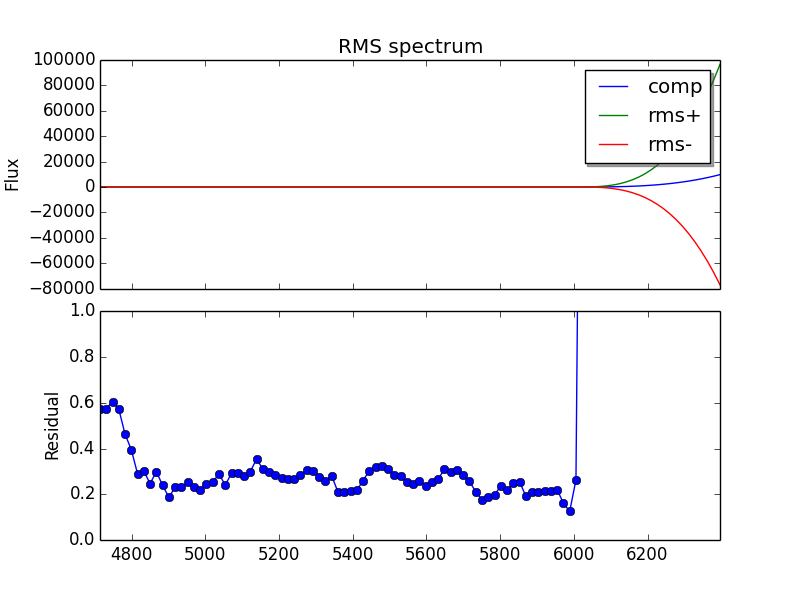
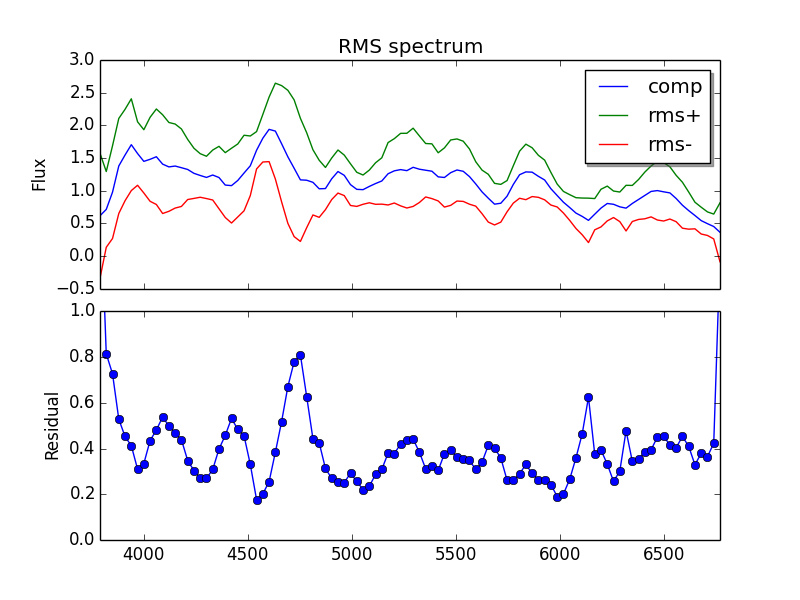
Updated plot
still no idea why it won't work for num>70...

diff --git a/personal/Yinghe/Week 3/specavg.py b/personal/Yinghe/Week 3/specavg.py
@@ -1,5 +1,4 @@
 
-
 import numpy as np
 import os
 import scipy
@@ -17,28 +16,29 @@ bad_files = []
 
 #Start in the data folder, and make a list of each file ending with .flm in each directory
 
-"""path = '../../data/cfa/'
+path = '../../../data/cfa/'
 
-for dirs,subdirs,files in os.walk(path):
+"""for dirs,subdirs,files in os.walk(path):
     for file in files:
         if file.endswith('.flm'):
             spectra_files.append(os.path.join(dirs,file))"""
             
 #Faster ways            
-spectra_files=glob.glob("../../data/cfa/*/*.flm")
+spectra_files=glob.glob("../../../data/cfa/*/*.flm")
                     
 #Read in data, store unreadable files (give an error when read in) in a separate array
-num = 80 # the number of spectra to analyze
-for i in range(num):
+num0 = 50 # the number of spectra to analyze
+for i in range(num0):
     try:
-        spectra_arrays.append(np.loadtxt(spectra_files[i]))
+        spectra_arrays.append(Table.read(spectra_files[i],format='ascii'))
         spectra_name.append(spectra_files[i])
     except ValueError:
         bad_files.append(spectra_files[i])
+
 num = len(spectra_arrays) # Reset the number to the number of good files
 
 #deredshift data
-parameters = Table.read('../../data/cfa/cfasnIa_param.dat',format='ascii')
+parameters = Table.read('../../../data/cfa/cfasnIa_param.dat',format='ascii')
 sn_name = parameters['col1']
 sn_z = parameters['col2']
 #old_spectrum = []
@@ -49,9 +49,9 @@ for i in range(num):
     for j in range(len(sn_name)):
         if sn_name[j] in file_name:
 		z=sn_z[j]
-    lambda_obs =old_spectrum[:,0]
+    lambda_obs =old_spectrum['col1']
     lambda_emit= lambda_obs/(1+z)
-    spectra_arrays[i]=Table([lambda_emit,old_spectrum[:,1]],names=('col1','col2'))
+    spectra_arrays[i]=Table([lambda_emit,old_spectrum['col2']],names=('col1','col2'))
 
 #scale/truncate spectra
 wave_min=0  #arbitrary minimum of wavelength range
@@ -94,7 +94,8 @@ for i in range(len(wavelength)):
     RMS1_flux.append(Comp_flux[i]+math.sqrt(fluxb/num))
     RMS2_flux.append(Comp_flux[i]-math.sqrt(fluxb/num))
     scatter.append(math.sqrt(fluxb/num)/Comp_flux[i])
-print Comp_flux,RMS1_flux
+#    if RMS1_flux[i] > 10000 : print ERROR
+#print Comp_flux,RMS1_flux
     
 
 #plot composite spectrum with RMS Spectrum on top and Residual RMS on bottom
